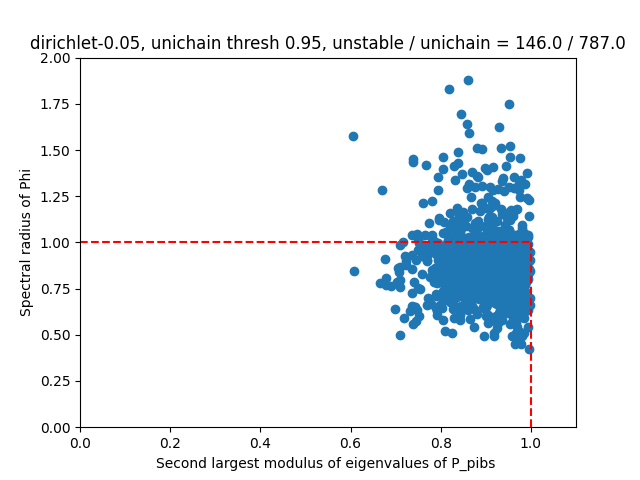
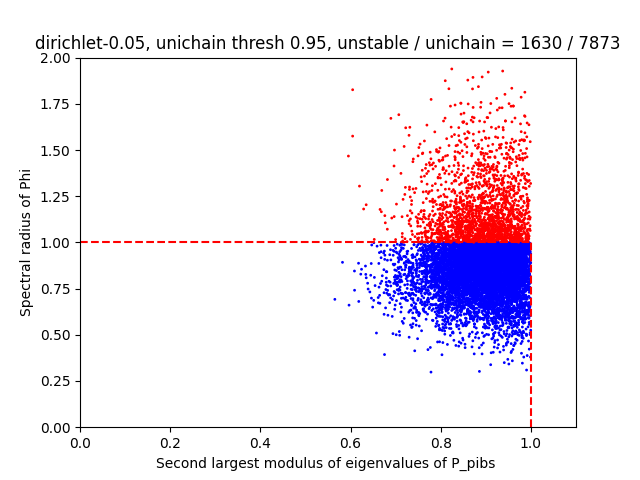
Fixed a bug in making random examples' scatter plot.

diff --git a/understand_UGAP.py b/understand_UGAP.py
@@ -90,7 +90,7 @@ def count_locally_unstable(alpha):
 
 def search_and_store_unstable_examples():
     # parameters
-    num_examples = 1000
+    num_examples = 10000
     num_reward_modif_examples = 0
     T_mf_simulation = 1000
     plot_subopt_cdf = False
@@ -101,7 +101,7 @@ def search_and_store_unstable_examples():
     sspa_size = 10
     distr = "dirichlet" #"uniform", "dirichlet", "CL
     laziness = None
-    alpha = 0.05
+    alpha = 0.1
     beta = 4 # > 3
     distr_and_parameter = distr
     if distr == "uniform":
@@ -192,17 +192,20 @@ def search_and_store_unstable_examples():
                         setting.reward_modifs.append(new_reward_modif)
 
     if make_scatter_plot:
-        eig_vals_list = np.zeros((sspa_size, 2))
+        eig_vals_list = []
         unstable_unichain_count = 0
         unichain_count = 0
         for i, setting in enumerate(all_data["examples"]):
-            eig_vals_list[i, 0] = setting.unichain_eigval
-            eig_vals_list[i, 1] = setting.local_stab_eigval
+            if setting is None:
+                continue
+            eig_vals_list.append([setting.unichain_eigval, setting.local_stab_eigval])
             if setting.unichain_eigval <= unichain_threshold:
                 unichain_count +=1
                 if setting.local_stab_eigval > 1:
                     unstable_unichain_count += 1
-        plt.scatter(eig_vals_list[:,0], eig_vals_list[:,1])
+        eig_vals_list = np.array(eig_vals_list)
+        colors = ["r" if eig_vals_list[i,1]>1 else "b" for i in range(eig_vals_list.shape[0])]
+        plt.scatter(eig_vals_list[:,0], eig_vals_list[:,1], c=colors, s=1)
         plt.plot([0,1], [1,1], linestyle="--", color="r")
         plt.plot([1,1], [0,1], linestyle="--", color="r")
         plt.xlabel("Second largest modulus of eigenvalues of P_pibs ")
